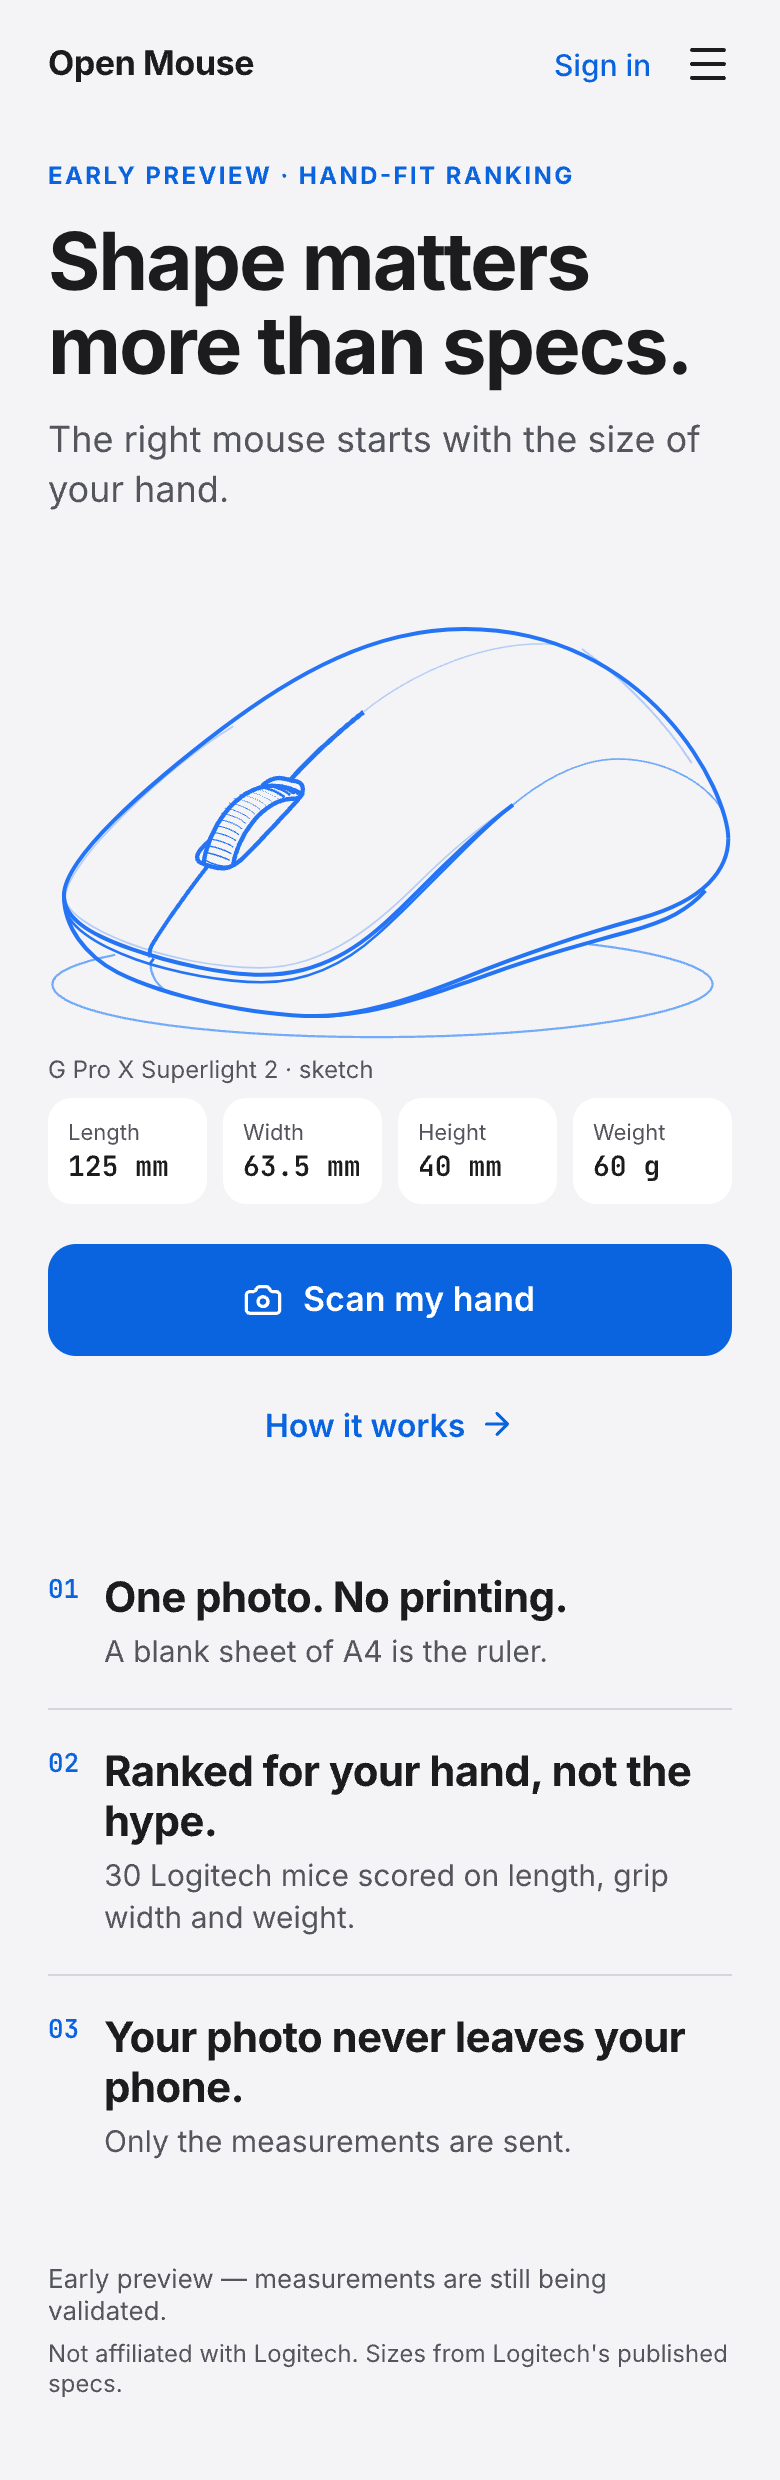
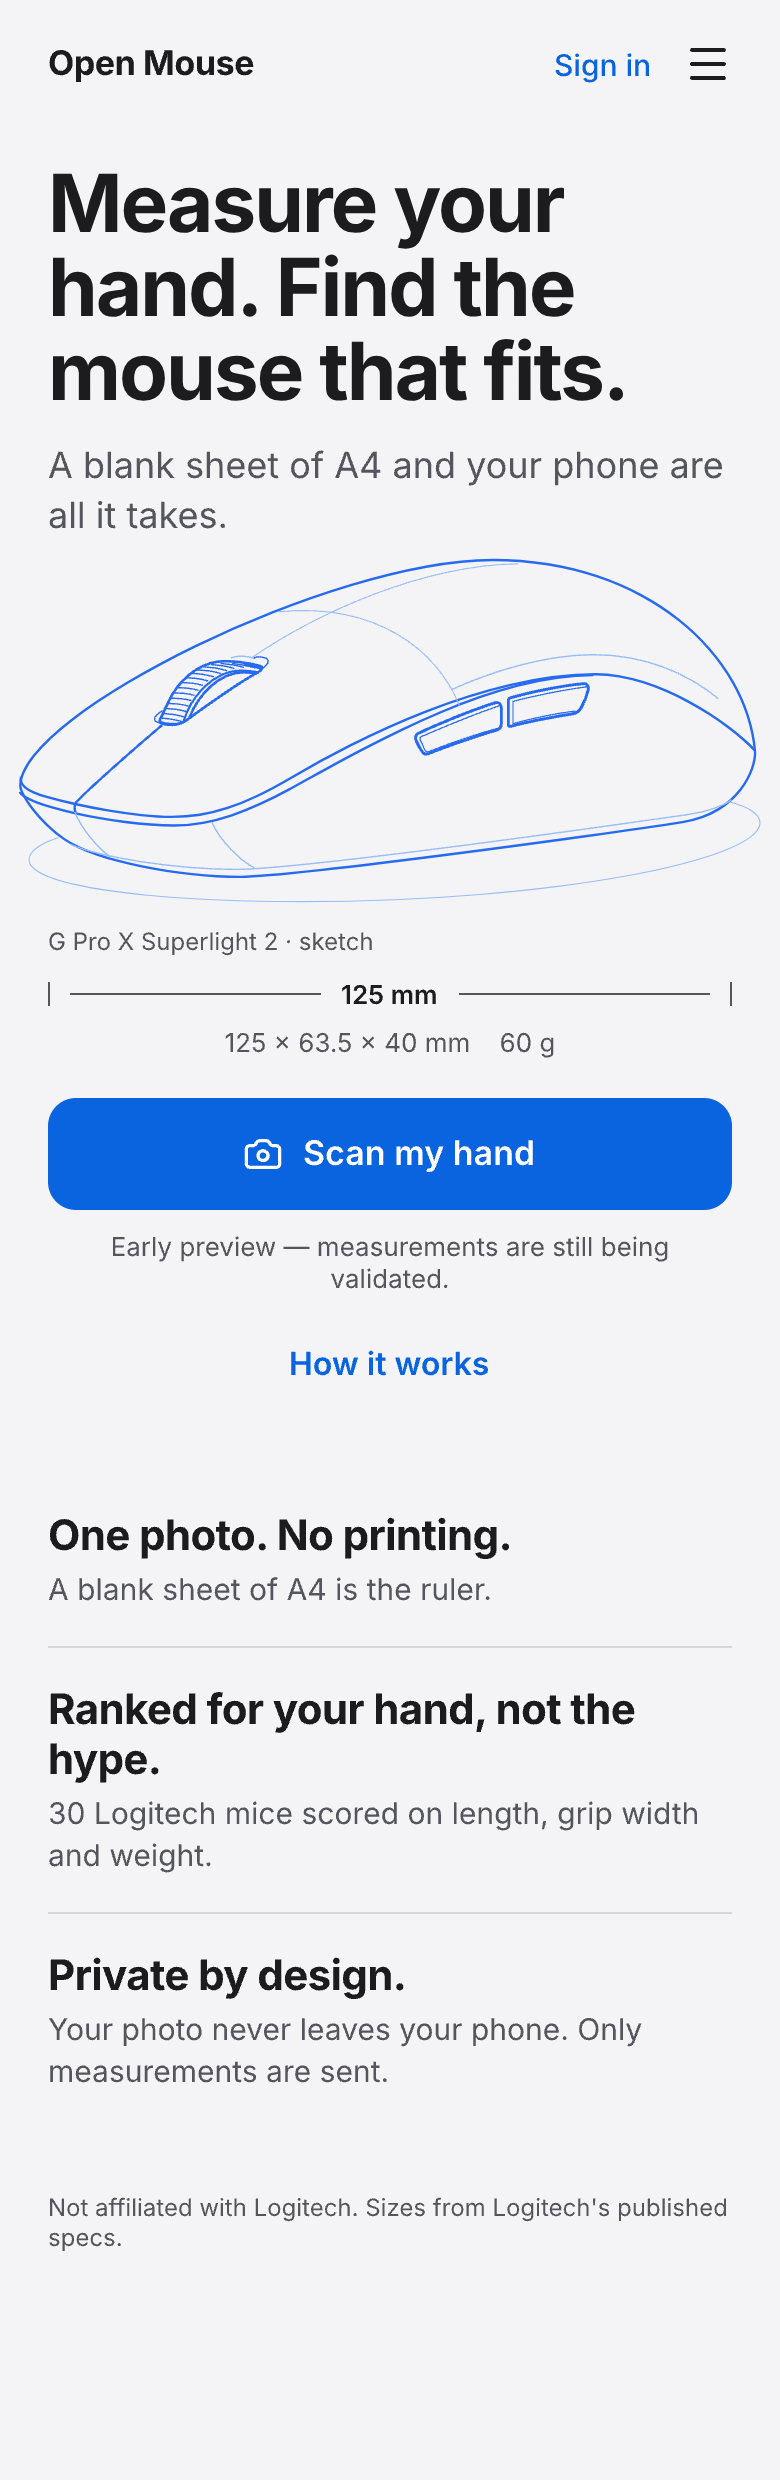
Design: screen 17 updated to sketch v2 and the audited landing
Claude-Session: https://claude.ai/code/session_01NbhwgDQM7NVJpyrTU5XTCU

diff --git a/docs/design/easy-scan-shell-2026-09-25/README.md b/docs/design/easy-scan-shell-2026-09-25/README.md
@@ -135,4 +135,4 @@ sketch is regenerated on pen.dev ("Asset · G Pro style sketch v2") from a
 low three-quarter view on the left side, so the length (≈ 2 : 1 at
 125 × 63.5 mm) reads and the two side (thumb) buttons are visible. The
 landing sizes it by its own aspect ratio and lets it bleed slightly past the
-text column. Screen 17's PNG still shows v1; `built/landing.png` is current.
+text column. Screen 17 (canvas and PNG) updated to v2 and to the audited layout.
